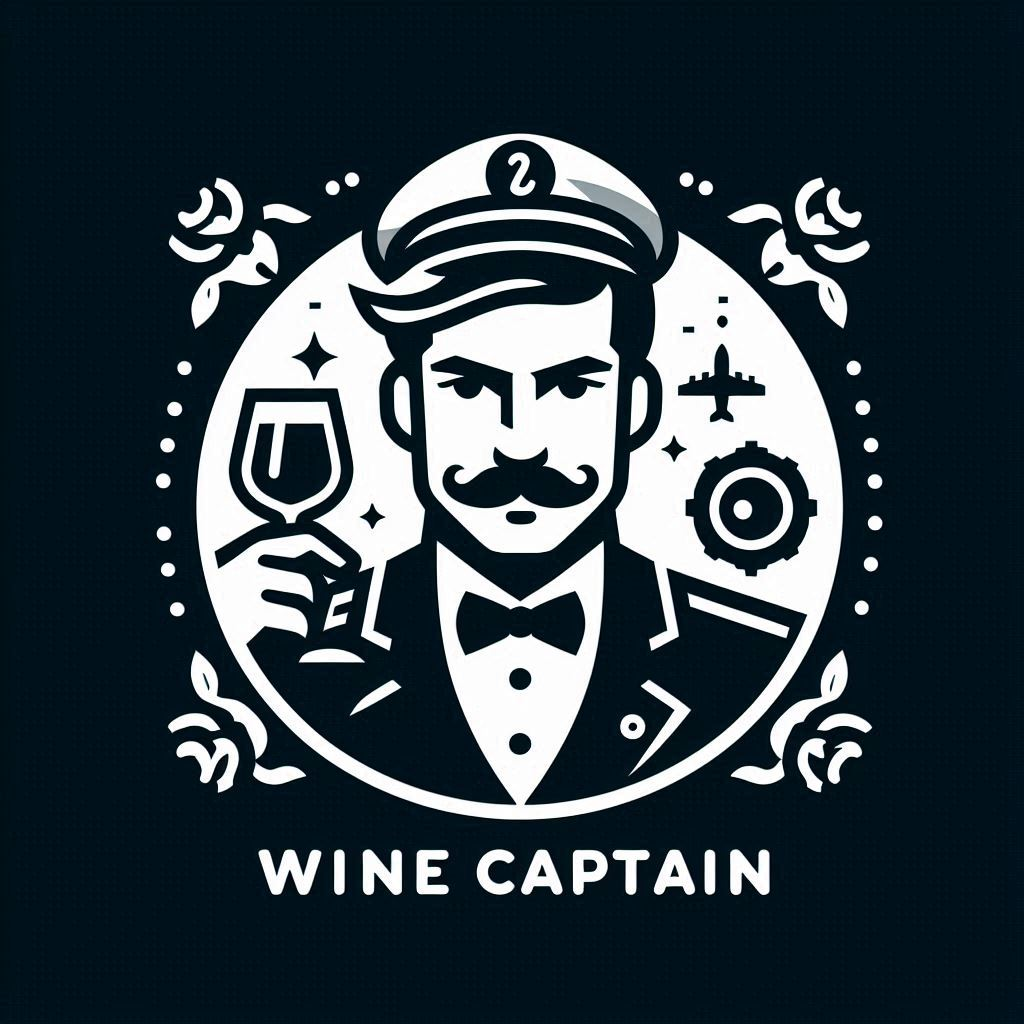
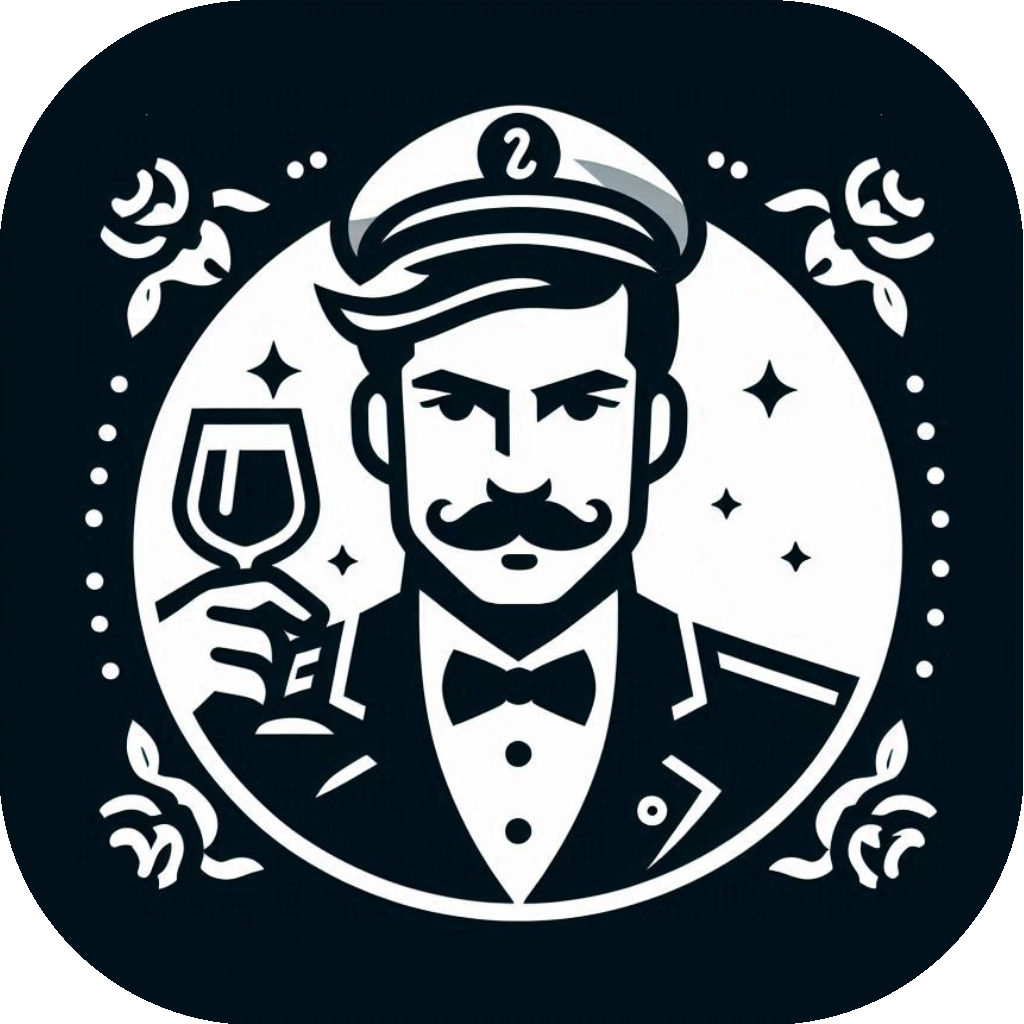
exchange image

diff --git a/index.md b/index.md
@@ -8,7 +8,7 @@ hero:
   image: 
     src: /app_icon.jpg
     style: 
-      border-radius: 50%
+      border-radius: 20%
     alt: Pascal
   actions:
     - theme: brand
